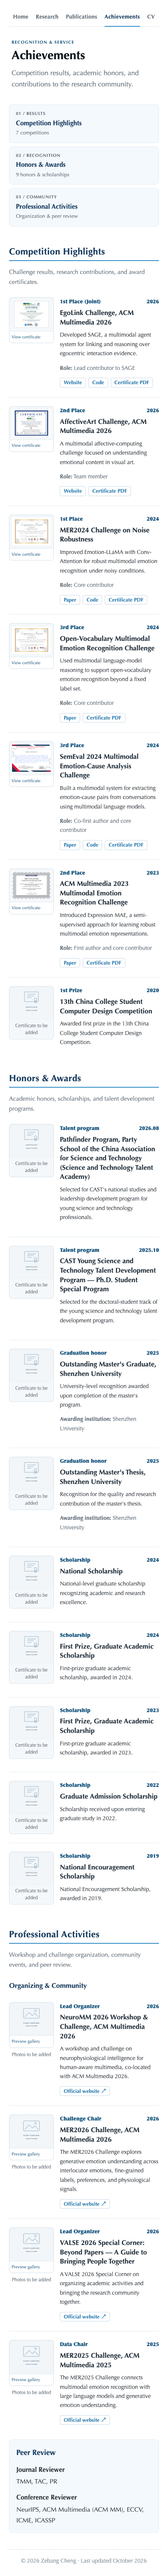
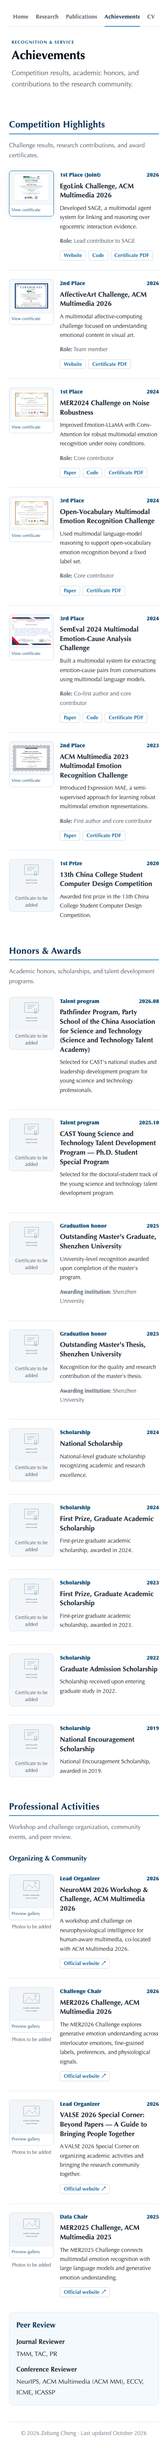
Remove achievements section navigation (#19)

diff --git a/assets/css/main.css b/assets/css/main.css
@@ -691,46 +691,6 @@ footer p {
   color: var(--muted);
 }
 
-.achievements-nav {
-  display: grid;
-  grid-template-columns: repeat(3, minmax(0, 1fr));
-  gap: 12px;
-  margin: 16px 10px 38px;
-}
-
-.achievements-nav a {
-  display: grid;
-  gap: 6px;
-  padding: 18px;
-  border: 1px solid var(--line);
-  border-radius: 8px;
-  background: var(--soft-blue);
-}
-
-.achievements-nav a:hover {
-  border-color: var(--blue);
-  text-decoration: none;
-}
-
-.achievements-nav span {
-  color: var(--muted);
-  font-size: 10px;
-  font-weight: 700;
-  letter-spacing: 0.08em;
-  text-transform: uppercase;
-}
-
-.achievements-nav strong {
-  color: var(--navy);
-  font-size: 15px;
-  line-height: 1.35;
-}
-
-.achievements-nav small {
-  color: var(--muted);
-  font-size: 12px;
-}
-
 .achievement-section {
   margin-top: 46px;
 }
@@ -1160,17 +1120,6 @@ html.gallery-viewer-open {
   .achievement-meta {
     flex-wrap: wrap;
     gap: 4px 10px;
-  }
-
-  .achievements-nav {
-    grid-template-columns: 1fr;
-    gap: 8px;
-    margin: 12px 4px 26px;
-  }
-
-  .achievements-nav a {
-    gap: 3px;
-    padding: 12px 15px;
   }
 
   .gallery-hint {

diff --git a/achievements.md b/achievements.md
@@ -10,12 +10,6 @@ permalink: /achievements/
 {% assign activities = site.data.service | where: "kind", "event" %}
 {% assign reviews = site.data.service | where: "kind", "review" %}
 
-<nav class="achievements-nav" aria-label="On this page">
-  <a href="#competition-title"><span>01 / Results</span><strong>Competition Highlights</strong><small>{{ site.data.competitions.size }} competitions</small></a>
-  <a href="#honors-detail-title"><span>02 / Recognition</span><strong>Honors &amp; Awards</strong><small>{{ site.data.honors.size }} honors &amp; scholarships</small></a>
-  <a href="#service-detail-title"><span>03 / Community</span><strong>Professional Activities</strong><small>Organization &amp; peer review</small></a>
-</nav>
-
 <section class="detail-section achievement-section" aria-labelledby="competition-title">
   <h2 id="competition-title">Competition Highlights</h2>
   <p class="section-lead">Challenge results, research contributions, and award certificates.</p>
